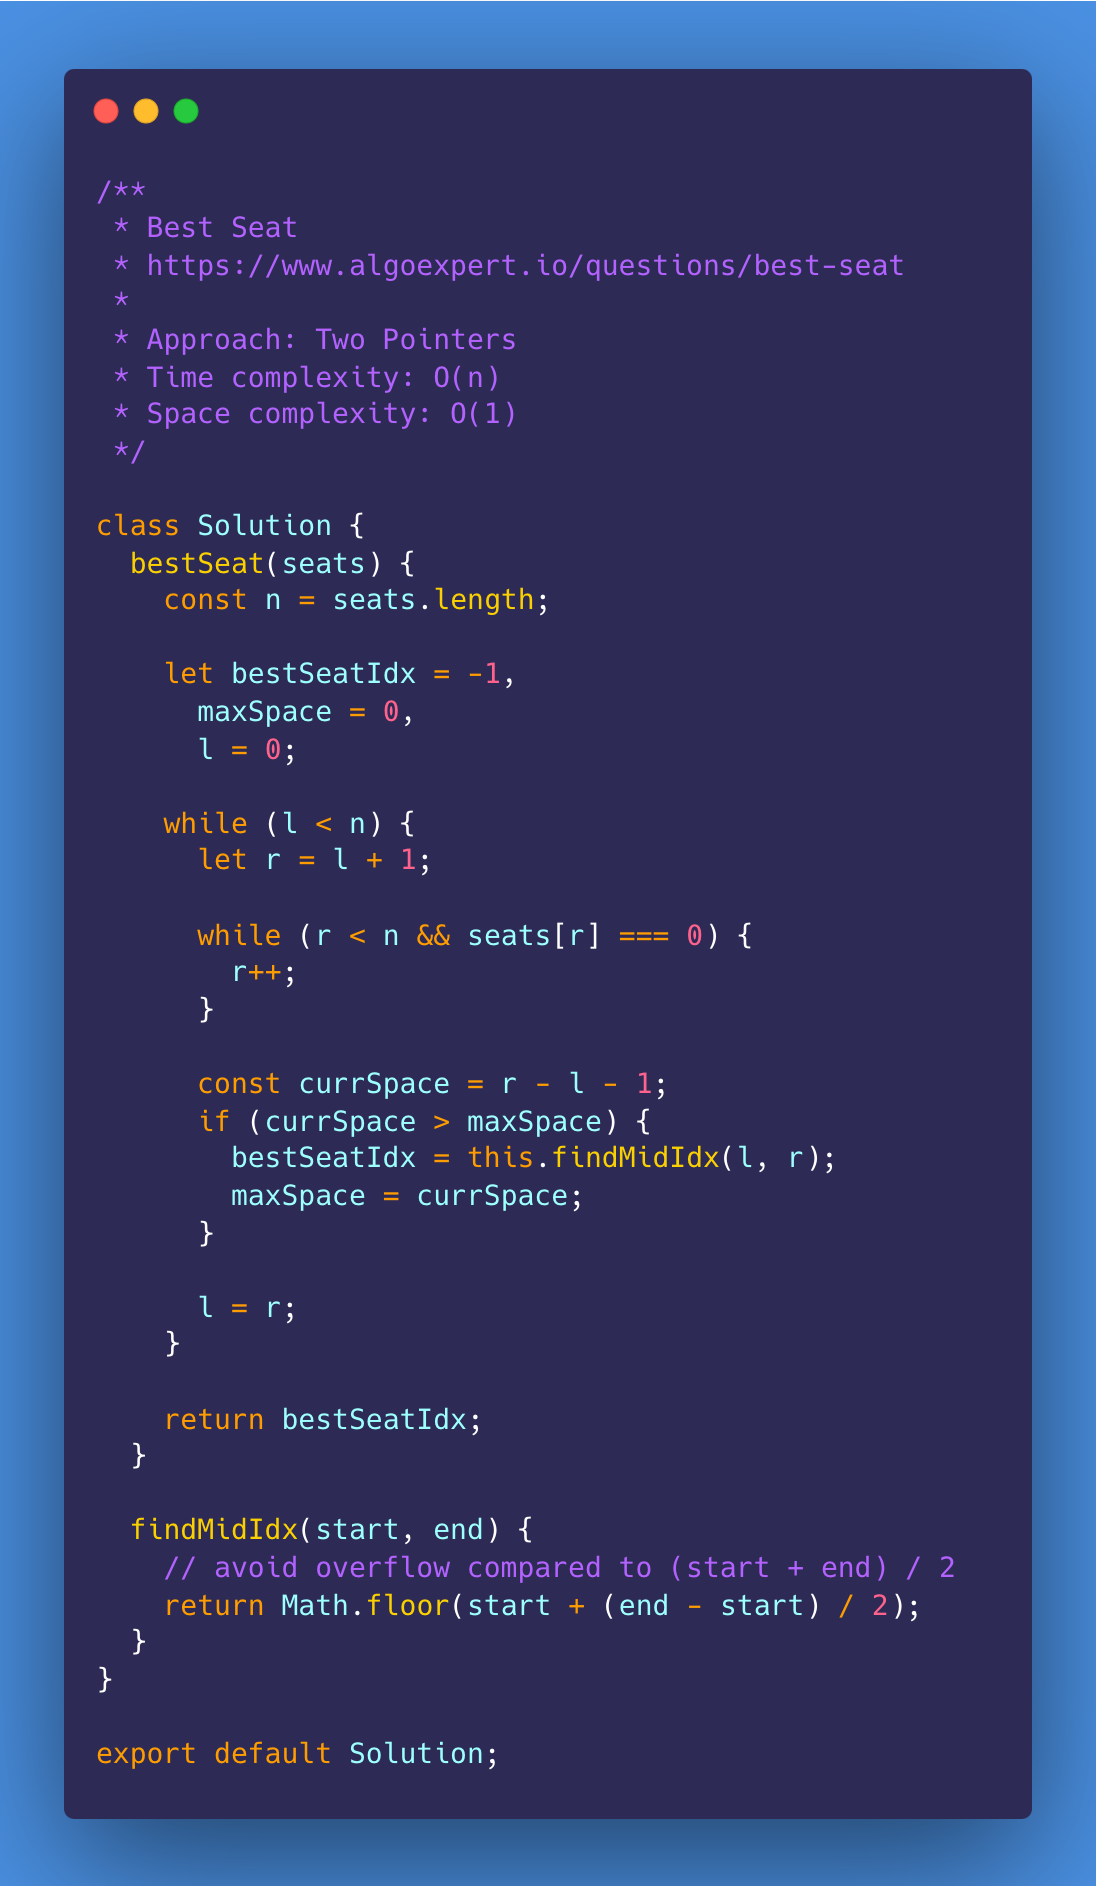
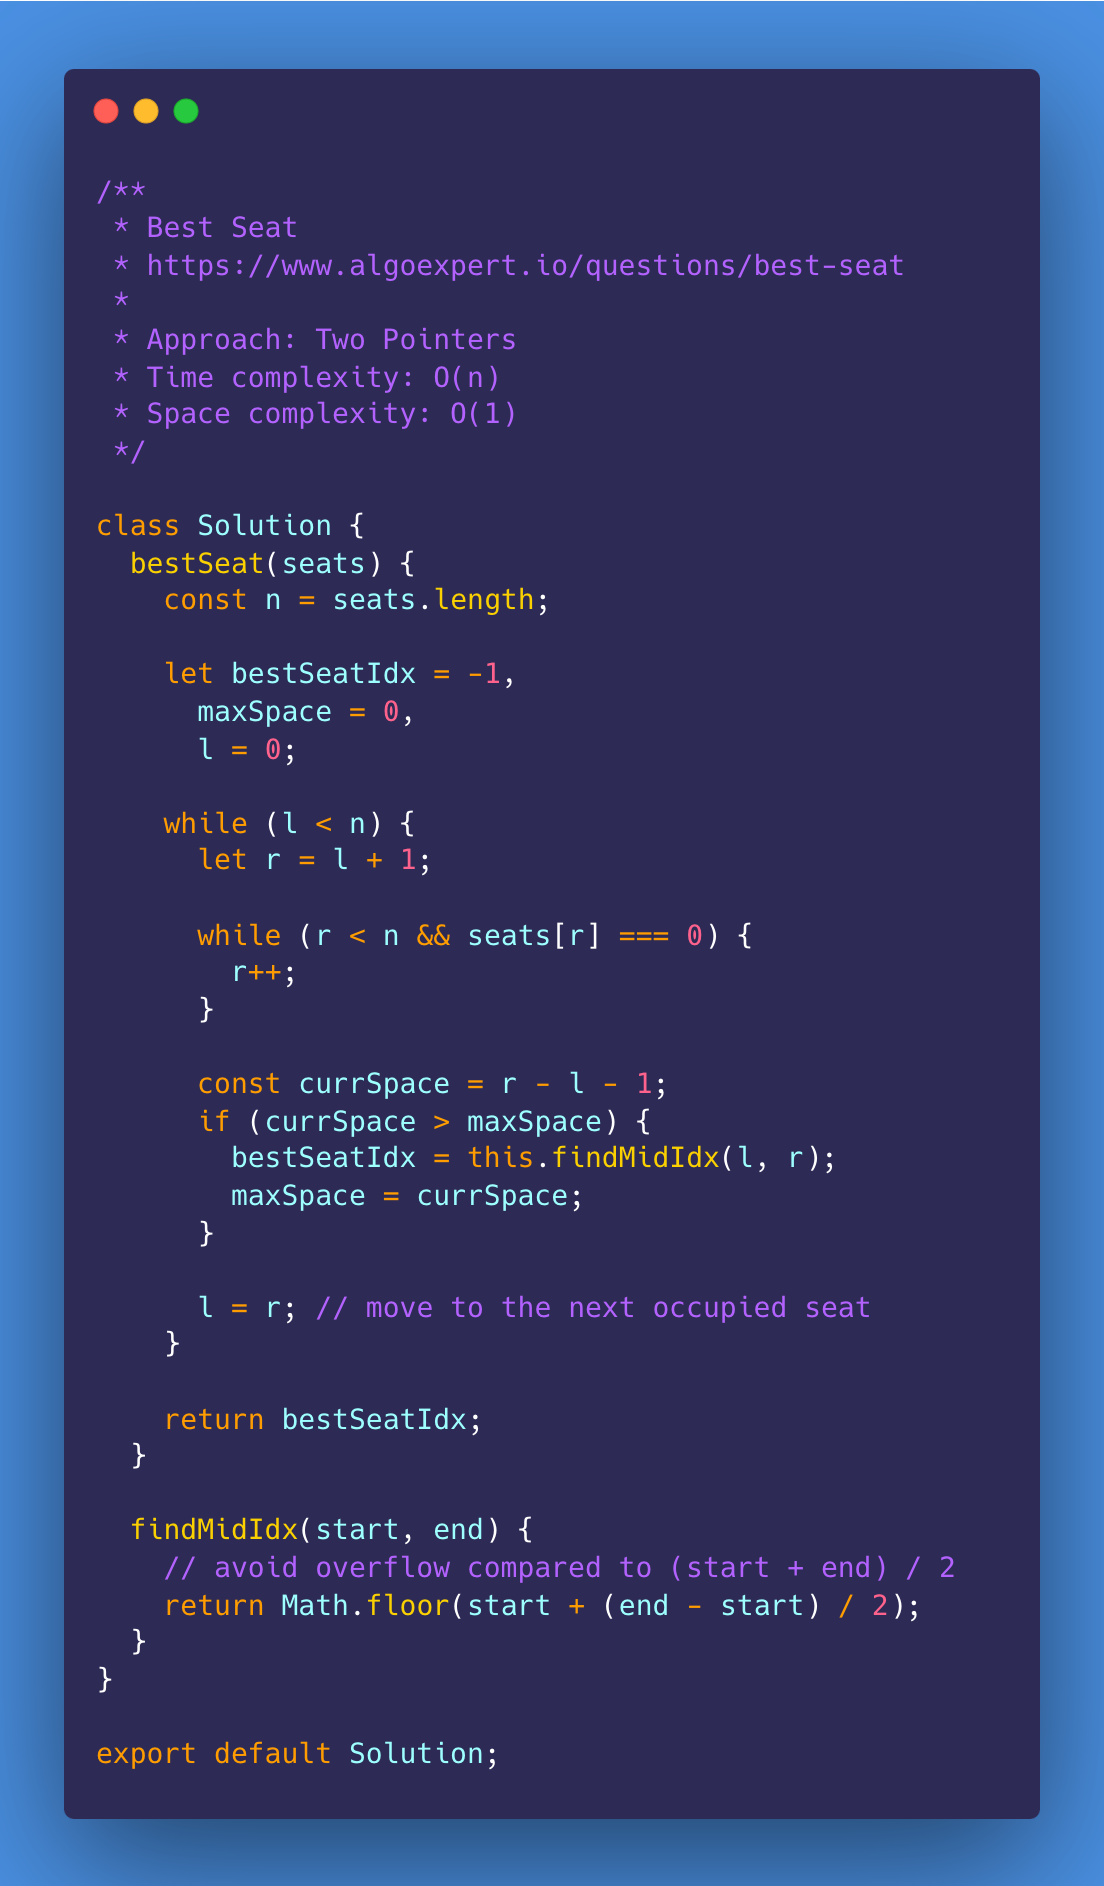
Best Seat

diff --git a/002-algoexpert/016-best-seat/001-solution/Solution.js b/002-algoexpert/016-best-seat/001-solution/Solution.js
@@ -28,7 +28,7 @@ class Solution {
         maxSpace = currSpace;
       }
 
-      l = r;
+      l = r; // move to the next occupied seat
     }
 
     return bestSeatIdx;
